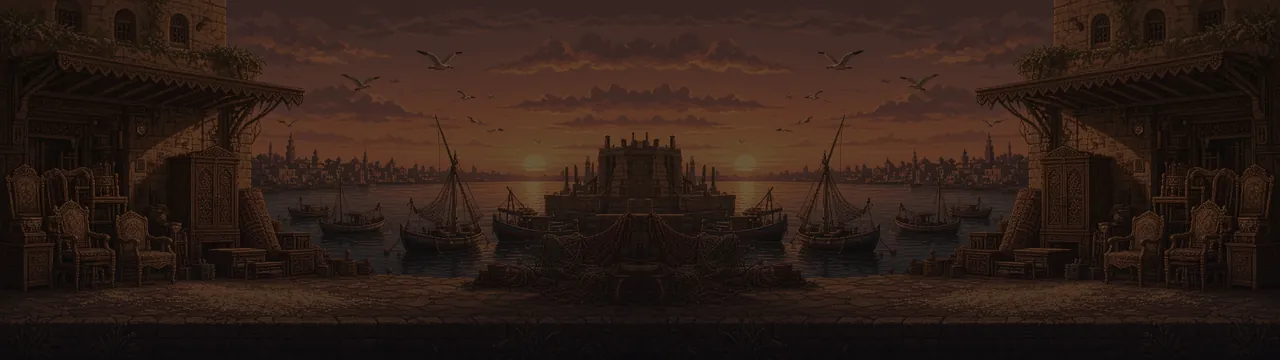
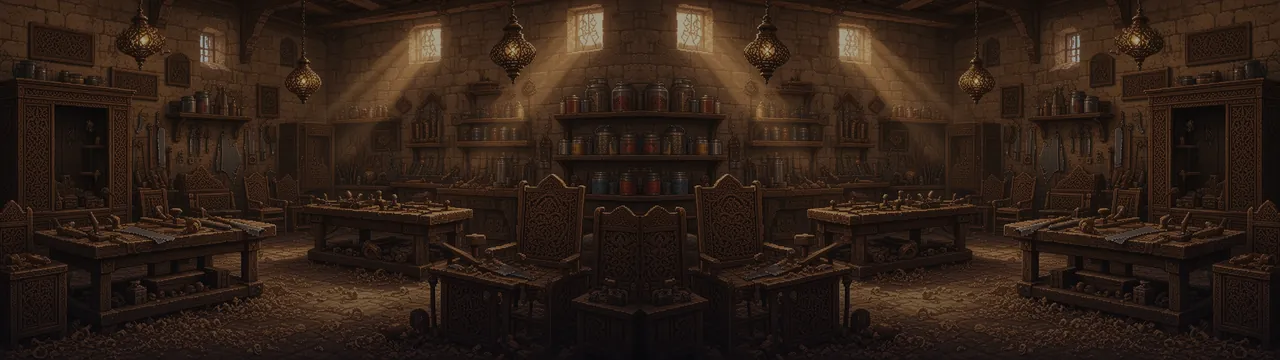
World 3: workshop-interior backdrop for جوه الورشة; level parallel-rope chandelier swing; riding lamps/boats counts as grounded

diff --git a/src/game.ts b/src/game.ts
@@ -117,7 +117,13 @@ interface Mover {
   /** Donkey cart: runs to max while ridden, walks home when left. */
   donkey?: { min: number; max: number; leftAt: number; ridden: boolean };
   /** Swinging chandelier / lantern: pivot and phase. */
-  lamp?: { px: number; py: number; phase: number };
+  lamp?: {
+    px: number;
+    py: number;
+    phase: number;
+    /** Rope segments as drawn this frame: [x1, y1, x2, y2] each. */
+    ropes?: [number, number, number, number][];
+  };
   /** Fishing boat riding the tide on its sea. */
   boat?: { sea: { top: number }; seed: number };
 }
@@ -201,6 +207,8 @@ export class Alley extends Phaser.Scene {
   };
   zip: { line: number; dir: number } | null = null;
   zipCooldown = 0;
+  /** Standing on a swinging lamp or a bobbing boat this frame. */
+  riding = false;
   dropUntil = 0;
   downSince = 0;
   keys!: Record<string, Phaser.Input.Keyboard.Key>;
@@ -2825,6 +2833,7 @@ export class Alley extends Phaser.Scene {
         this.skin('coin' + (Math.floor(time / 100 + obj.getData('phase')) % 6)),
       );
     // Ride carts and planks: carry the hero by the platform's own step.
+    this.riding = false;
     if (this.mode === 'play' && !this.zip) {
       const hb = body(this.hero);
       const on = this.moverList.find((m) => {
@@ -2837,6 +2846,11 @@ export class Alley extends Phaser.Scene {
         );
       });
       const ob = on && body(on.img);
+      this.riding = !!(
+        ob &&
+        (on.lamp || on.boat) &&
+        hb.velocity.y >= Math.min(0, ob.velocity.y) - 5
+      );
       if (ob && hb.velocity.y >= Math.min(0, ob.velocity.y) - 5) {
         this.hero.x += ob.velocity.x * dt;
         // Swinging lamps and bobbing boats also drop away under you: stick.
@@ -2934,7 +2948,9 @@ export class Alley extends Phaser.Scene {
       throwing = keyAction || touch.throw,
       down = this.keys.DOWN.isDown || this.keys.S.isDown || touch.down;
     const b = body(this.hero);
-    const grounded = b.blocked.down || b.touching.down;
+    // Riding a lamp or boat that drops away under you still counts as
+    // standing, so you can always jump off it.
+    const grounded = b.blocked.down || b.touching.down || this.riding;
     if (grounded) this.lastGround = time;
     if (jump && !this.jumpWas) this.lastPress = time;
     // Wind gusts: 2.6 s on, 1.6 s off.

diff --git a/src/world3.ts b/src/world3.ts
@@ -40,6 +40,8 @@ export interface W3 {
   hanging: boolean;
   netCooldown: number;
 }
+/** Half the distance between a lamp's two ropes (px). */
+export const ROPE_SPREAD = 20;
 export const emptyW3 = (): W3 | undefined => undefined;
 
 /** Lamp platform top-left target and velocity at clock t. */
@@ -242,14 +244,25 @@ export function updateDamiettaWorld(s: Alley, time: number, dt: number) {
         q.vx + Phaser.Math.Clamp((q.x - 4 - m.img.x) * 8, -200, 200),
         q.vy + Phaser.Math.Clamp((q.y - m.img.y) * 8, -200, 200),
       );
-      // Ropes from the beam to both ends of the platform.
-      const cx = m.img.x + 4 + (LAMP.width * TILE) / 2;
-      w3.ropes.lineStyle(2, 0x3a2414, 1);
-      w3.ropes.lineBetween(m.lamp.px, m.lamp.py - 6, m.img.x + 6, m.img.y + 1);
-      w3.ropes.lineBetween(m.lamp.px, m.lamp.py - 6, m.img.x + 50, m.img.y + 1);
-      w3.ropes.lineStyle(1, 0xc8a878, 1);
-      w3.ropes.lineBetween(m.lamp.px, m.lamp.py - 6, cx, m.img.y);
-      m.img.rotation = Math.atan2(cx - m.lamp.px, m.img.y - m.lamp.py) * -0.3;
+      // Two parallel ropes from the beam to the ends of the platform: a
+      // parallelogram swing, so the platform stays level and the ropes
+      // always meet it exactly where they are drawn.
+      const ends: [number, number, number, number][] = [-1, 1].map((d) => [
+        m.lamp!.px + d * ROPE_SPREAD,
+        m.lamp!.py - 6,
+        m.img.x + 4 + (LAMP.width * TILE) / 2 + d * ROPE_SPREAD,
+        m.img.y + 1,
+      ]);
+      m.lamp.ropes = ends;
+      for (const [w, col] of [
+        [3, 0x2a180c],
+        [1, 0xc8a878],
+      ] as const) {
+        w3.ropes.lineStyle(w, col, 1);
+        for (const [x1, y1, x2, y2] of ends)
+          w3.ropes.lineBetween(x1, y1, x2, y2);
+      }
+      m.img.rotation = 0;
     } else if (m.boat) {
       const ty =
         seaLevel(s, m.boat.sea) -

diff --git a/src/world3-art.ts b/src/world3-art.ts
@@ -372,10 +372,14 @@ export function makeDamiettaProps(scene: Phaser.Scene) {
       rect(c, 1, y + 3, 2, 1, '#6a5438');
     }
   });
-  tex(scene, 'lamp-hook', 24, 10, (c) => {
-    rect(c, 0, 0, 24, 6, '#3a2414');
-    rect(c, 0, 0, 24, 2, '#8a5a32');
-    rect(c, 10, 6, 4, 4, '#8a9498');
+  // Carved beam with two iron eyes the swing ropes hang from.
+  tex(scene, 'lamp-hook', 56, 10, (c) => {
+    rect(c, 0, 0, 56, 6, '#3a2414');
+    rect(c, 0, 0, 56, 2, '#8a5a32');
+    for (const x of [6, 46]) {
+      rect(c, x, 5, 4, 5, '#2a2a2e');
+      rect(c, x + 1, 6, 2, 3, '#8a9498');
+    }
   });
   // Stacked furniture: a carved chest, a cabinet and a chair on top (24×72).
   tex(scene, 'stack', 24, 72, (c) => {

diff --git a/scripts/bake-backdrops.py b/scripts/bake-backdrops.py
@@ -23,10 +23,11 @@ JOBS = {
     'l6': ('bg-w2-countryside', 0.92, 0.8, 0.8, 'noon'),
     'l7': ('bg-w2-countryside', 0.78, 0.85, 0.85, 'dusk'),
     'l8': ('bg-w2-countryside', 0.62, 0.7, 0.9, 'night'),
-    # World 3 (Damietta): the workshop quay by morning, by lamplight indoors,
-    # at sunset over the harbour and in the blue hour at Ras El Bar.
+    # World 3 (Damietta): the workshop quay by morning, inside a carpenter's
+    # workshop (its own painting), at sunset over the harbour and in the blue
+    # hour at Ras El Bar.
     'l9': ('bg-w3-damietta', 0.84, 0.86, 0.9, 'morning'),
-    'l10': ('bg-w3-damietta', 0.6, 0.7, 0.9, 'lamplight'),
+    'l10': ('bg-w3-workshop-interior', 0.74, 0.8, 0.88),
     'l11': ('bg-w3-damietta', 0.8, 0.85, 0.85, 'dusk'),
     'l12': ('bg-w3-damietta', 0.66, 0.72, 0.92, 'bluehour'),
 }
